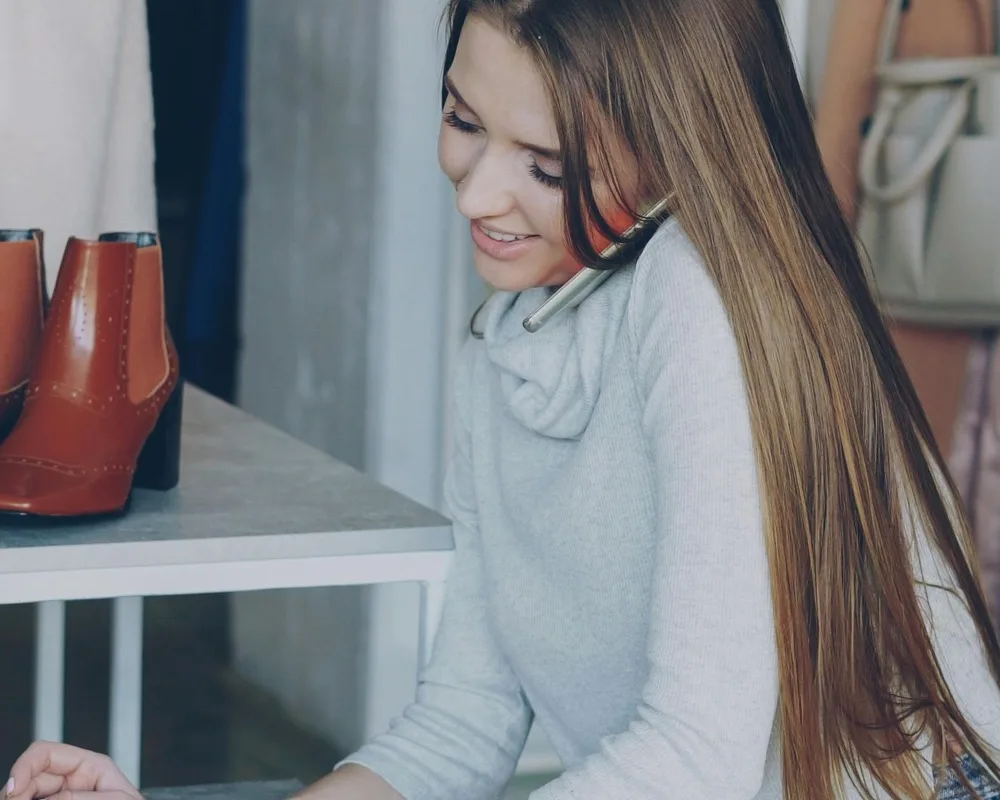
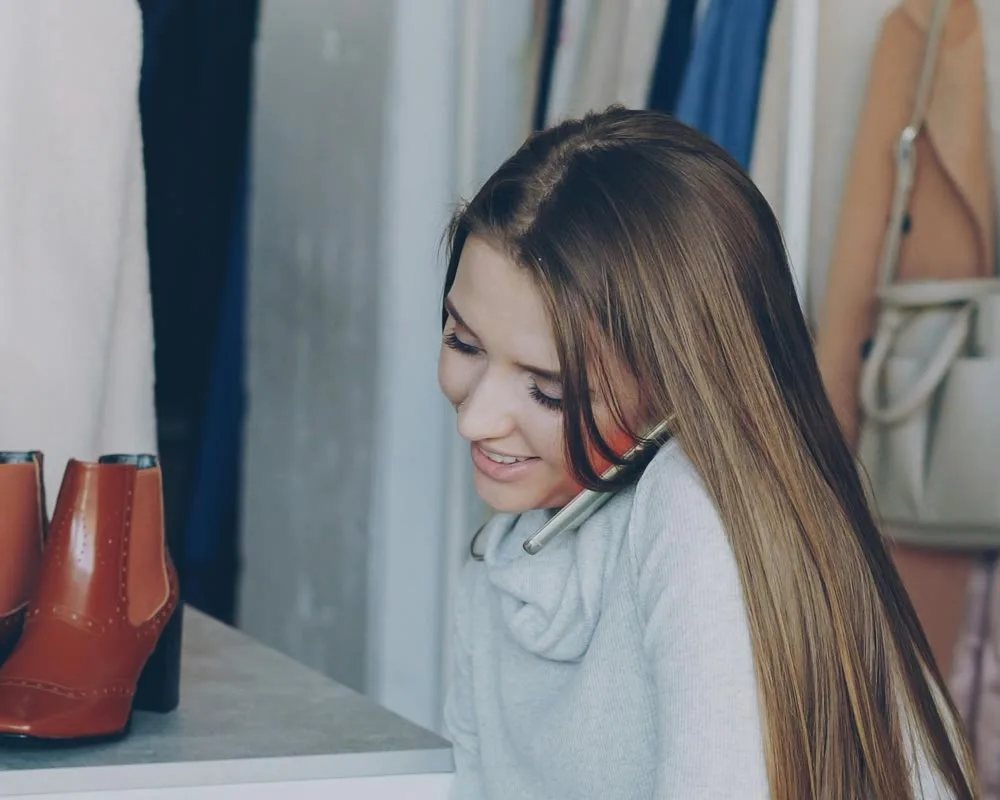
fix: aday story fotolar top-aligned crop (kafalar korundu) — Pass 10 #10
Tuna feedback: 3 story fotosunda kafalar ustten kirpilmis, "ustu koruyalim,
asagidan kirpabilirsin."

Re-transform: ffmpeg crop top-aligned (y=0) + scale 1000×800 + cwebp q82.
- story-selin.webp: 56KB → 45KB (saç top + yüz + laptop)
- story-kerem.webp: 127KB → 92KB (saç top + yüz + turtleneck)
- story-zeynep.webp: 103KB → 83KB (saç top + profil + rack)

Cache-bust bump ?v=20260421p10e → ?v=20260421p10f (CF eski asset serve
etmesin, ayni URL asset overwrite CF icin shallow cache-invalidate degil).

TDD 27/27 PASS.

diff --git a/index.html b/index.html
@@ -237,7 +237,7 @@ document.addEventListener('DOMContentLoaded', function(){
 
       <div class="stories-grid">
         <article class="story">
-          <div class="story-portrait"><img src="assets/v2/story-selin.webp?v=20260421p10e" alt="Mağaza müdürlüğüne geçen Selin A. portresi (temsili)"></div>
+          <div class="story-portrait"><img src="assets/v2/story-selin.webp?v=20260421p10f" alt="Mağaza müdürlüğüne geçen Selin A. portresi (temsili)"></div>
           <div class="story-body">
             <blockquote>Mağaza müdür yardımcısı olarak 4 yıl sonra farklı bir markadan Hello Talent aracılığıyla teklif aldım. Artık kariyerime mağaza müdürü olarak devam ediyorum.</blockquote>
             <div class="story-meta">
@@ -248,7 +248,7 @@ document.addEventListener('DOMContentLoaded', function(){
         </article>
 
         <article class="story">
-          <div class="story-portrait"><img src="assets/v2/story-kerem.webp?v=20260421p10e" alt="Mağaza müdür yardımcılığına geçen Kerem T. portresi (temsili)"></div>
+          <div class="story-portrait"><img src="assets/v2/story-kerem.webp?v=20260421p10f" alt="Mağaza müdür yardımcılığına geçen Kerem T. portresi (temsili)"></div>
           <div class="story-body">
             <blockquote>Hızlı moda markalarında uzun süre satış danışmanlığı yaptım. Kendimi mevcut şirketimden gizli tutarak yeni bir rol arayışına başladım, profilime deneyimlerimi ekledim. Hello Talent ile yeni bir markadan müdür yardımcısı pozisyon eşleşmesi aldım, kariyerimde bir adım öne geçtim.</blockquote>
             <div class="story-meta">
@@ -259,7 +259,7 @@ document.addEventListener('DOMContentLoaded', function(){
         </article>
 
         <article class="story">
-          <div class="story-portrait"><img src="assets/v2/story-zeynep.webp?v=20260421p10e" alt="Görsel uzmanlığına geçen Zeynep Y. portresi (temsili)"></div>
+          <div class="story-portrait"><img src="assets/v2/story-zeynep.webp?v=20260421p10f" alt="Görsel uzmanlığına geçen Zeynep Y. portresi (temsili)"></div>
           <div class="story-body">
             <blockquote>Mağaza sektöründe en çok istediğim ekip görsel ekibiydi. Hello Talent sayesinde profilim takip ettiğim markanın görsel uzman pozisyonu ile eşleşti. Çok hızlı bir şekilde işe alındım. Artık kariyerime görsel düzenleme ekibinde devam ediyorum.</blockquote>
             <div class="story-meta">
